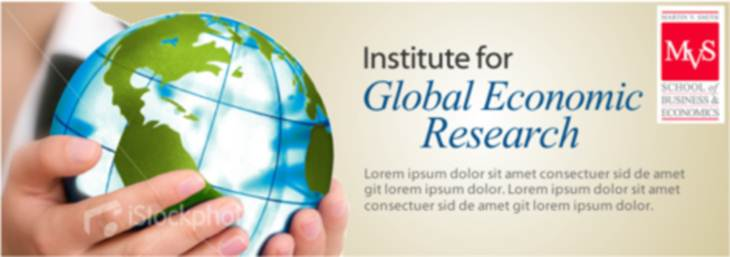
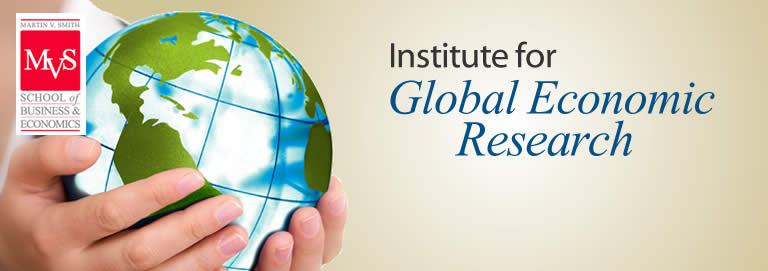
final header

diff --git a/style.css b/style.css
@@ -119,11 +119,12 @@ DESCRIPTION: Full width content with no sidebar; used for attachment pages
 }
 
 
+
 .has_right_bar #content {
 	margin: 0 auto;
 	width: 528px;
 	margin-right:0px;
-	background-color:green;
+/*	background-color:green; */
 	clear:left;
 	float:left;
 }
@@ -133,7 +134,7 @@ DESCRIPTION: Full width content with no sidebar; used for attachment pages
 	width: 200px;
 	float:right;
 	clear:right;
-	background-color:red;
+/*	background-color:red; */
 }
 
 
@@ -353,7 +354,7 @@ a:link {
 	color:#0066CC;
 }
 a:visited {
-	color:#743399;
+	color:#743399;header_iger_wide
 }
 a:active,
 a:hover {
@@ -1792,6 +1793,47 @@ padding-bottom: 15px;
 
 img#header_iger_wide
 {
-	width:	730px;
-	height:	257px;
+	width:	768px;
+	margin-left: -20px;
+	height:	271px;
 }
+
+#masthead {
+	position:relative;
+}
+
+a.nav_button {
+	display:block;
+	position:absolute;
+	background-image: url(images/top_nav_buttons.png);	
+}
+
+a.nav_button.contact_us {
+	background-position: -0px -0px;
+	width:154px;
+	height:43px;
+	top:206px;
+	left:387px;
+}
+
+a.nav_button.contact_us:hover,
+a.nav_button.contact_us:active {
+	background-position: -0px -50px;
+	
+}
+
+a.nav_button.blog {
+	background-position: -164px 0px;	
+	width:122px;
+	height:43px;
+	top:206px;
+	left:550px;
+	
+}
+
+a.nav_button.blog:hover,
+a.nav_button.blog:active {
+	background-position: -164px -50px;
+	
+}
+

diff --git a/header.php b/header.php
@@ -107,6 +107,8 @@
 
 			<div style='clear:both;'></div>
 				<img id='header_iger_wide' src="<?php bloginfo('template_directory'); ?>/images/header_iger_wide.jpg" alt=''/>
+				<a href="/iger/contact-us" alt="" class='nav_button contact_us'></a>
+				<a href="/blog" alt="" class='nav_button blog'></a>
 				<div class='clear'></div>
 			</div><!-- #masthead -->
 
